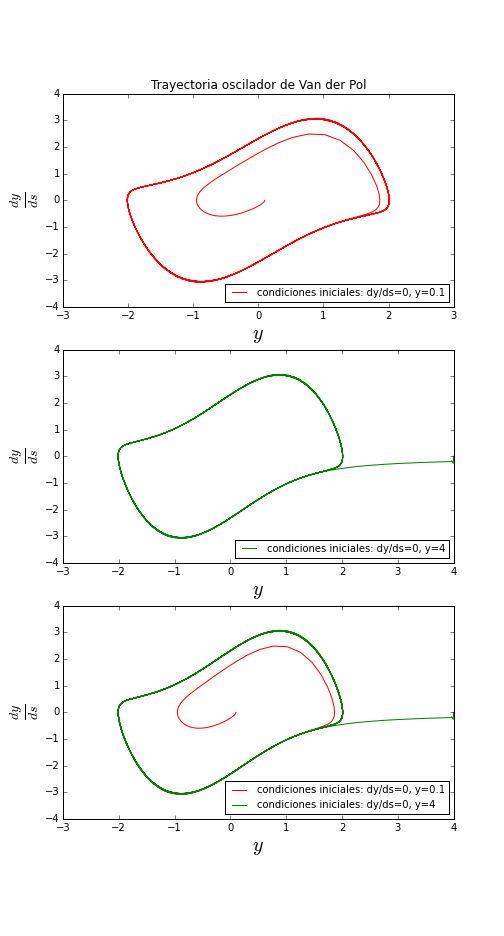
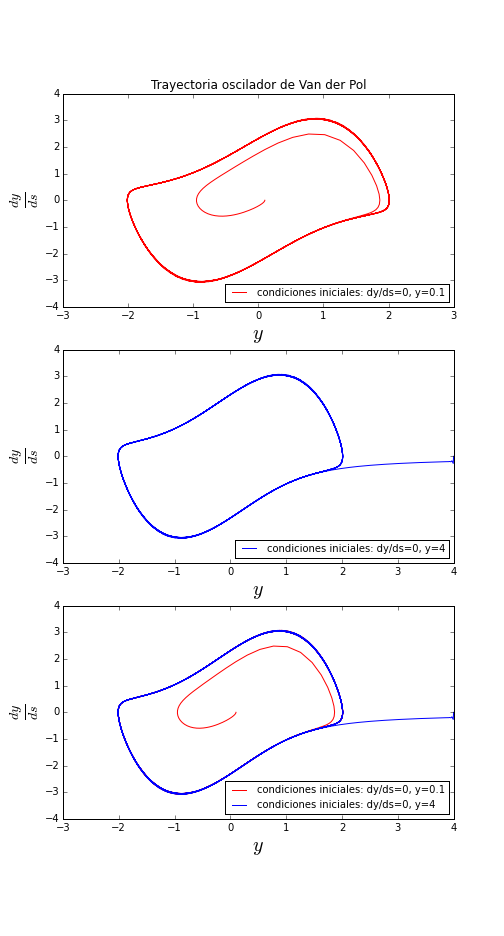
Ligeras correcciones a P1, y preparación de P2

diff --git a/RK4Lorentz.py b/RK4Lorentz.py
@@ -1,0 +1,43 @@
+# -*- coding: utf-8 -*-
+"""
+Created on Thu Oct 08 15:20:34 2015
+
+@author: Administrador
+"""
+
+'''
+Este script resuelve el sistema de Lorenz usando
+el integrador dopri5 (RK4) de la libreria scipy.integrate.
+Los parametros asociados al sistema de Lorenz estan
+fijos en la implementacion, para obtener la solucion
+conocida como el Atractor de Lorenz.
+
+La funcion f define el sistema con los parametros ya
+fijados. Luego el script integra (x,y,z) desde t=0
+hasta t=100 y crea una figura con la trayectoria en
+3D. Al final del script se guarda el grafico
+en una imagen .png.
+'''
+
+import numpy as np
+import matplotlib.pyplot as plt
+from scipy.integrate import ode
+from mpl_toolkits.mplot3d import Axes3D
+
+
+def f(t, xyz):
+    dx = 10.0 * (xyz[1] - xyz[0])
+    dy = xyz[0] * (28.0 - xyz[2]) - xyz[1]
+    dz = xyz[0] * xyz[1] - 8.0/3.0 * xyz[2]
+    return [dx, dy, dz]
+
+tf = 100.
+N_steps = 10000
+dt = tf/N_steps
+x=np.zeros(N_steps+1)
+y=np.zeros(N_steps+1)
+z=np.zeros(N_steps+1)
+xyz0 = [1, 1, 1]
+t=np.linspace(0, 10, N_steps+1)
+
+n=1

diff --git a/RK3Pol.py b/RK3Pol.py
@@ -86,14 +86,14 @@ for i in range(1,n):
     (y_2[i],v_2[i]) = RK3(y_2[i-1],v_2[i-1],h,f)
 
 plt.subplot(312)
-plt.plot(y_2,v_2,color="g",label="condiciones iniciales: dy/ds=0, y=4")
+plt.plot(y_2,v_2,color="b",label="condiciones iniciales: dy/ds=0, y=4")
 plt.xlabel('$y$', fontsize=20)
 plt.ylabel("$\\frac{dy}{ds}$",fontsize=20)
 plt.legend(loc='lower right',prop={'size':10})
 
 plt.subplot(313)
 plt.plot(y_1,v_1,color="r",label="condiciones iniciales: dy/ds=0, y=0.1")
-plt.plot(y_2,v_2,color="g",label="condiciones iniciales: dy/ds=0, y=4")
+plt.plot(y_2,v_2,color="b",label="condiciones iniciales: dy/ds=0, y=4")
 plt.xlabel('$y$', fontsize=20)
 plt.ylabel("$\\frac{dy}{ds}$",fontsize=20)
 plt.legend(loc='lower right',prop={'size':10})
@@ -109,7 +109,7 @@ plt.ylabel("y(s)")
 
 plt.subplot(212)
 plt.title("y(s) para condiciones iniciales: dy/ds=0, y=4")
-plt.plot(s_values,y_2,color="g")
+plt.plot(s_values,y_2,color="b")
 plt.xlabel("s")
 plt.ylabel("y(s)")
 plt.savefig("vdpol2.png")
